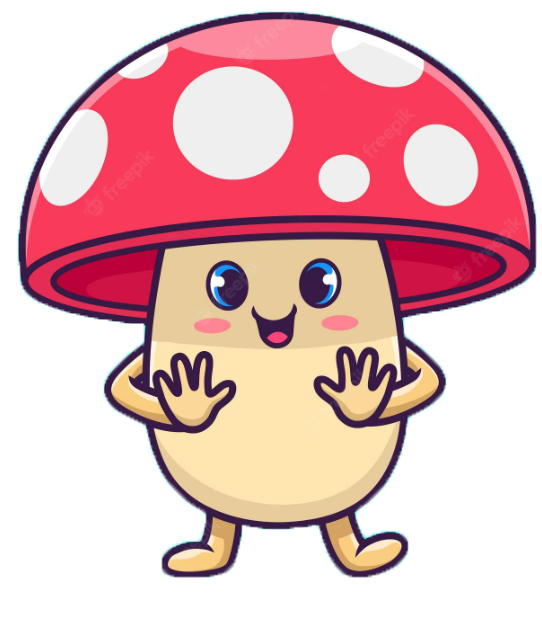
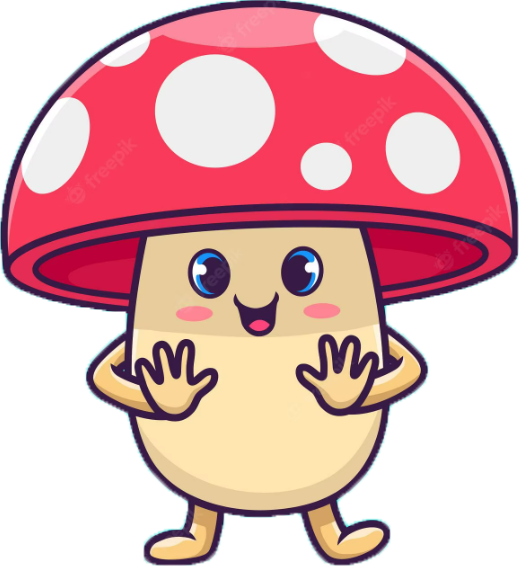
images upgraded and bug fixes

diff --git a/src/backend/Mario.java b/src/backend/Mario.java
@@ -17,20 +17,11 @@ public abstract class Mario extends Block implements Saleable {
     public int heart;
     public Map<Direction, Boolean> task = new HashMap<>();
     int upAndDownBoth = 0;
-    int jump;
-    int power;
     MarioState state = MarioState.mini;
 
     Mario() {
         super(1, 1, 0, 2);
         reset();
-    }
-
-    // TODO power
-    void Set(int jump, int power, int heart) {
-        this.jump = jump;
-        this.power = power;
-        this.heart = heart;
     }
 
     int getSpeed() {
@@ -54,12 +45,28 @@ public abstract class Mario extends Block implements Saleable {
         return true;
     }
 
-    private boolean isDirection(Direction d) {return task.get(d) && !task.get(d.Opposite());}
+    private boolean isDirection(Direction d) {
+        return task.get(d) && !task.get(d.Opposite());
+    }
+
+    int getPowerLevel() {
+        switch (state) {
+            case mini -> {
+                return 1;
+            }
+            case mega -> {
+                return 2;
+            }
+            case giga -> {
+                return 3;
+            }
+        }
+        return 0;
+    }
 
     void reset() {
         for (Direction direction : Direction.values())
             task.put(direction, false);
-        jump = power = 0;
         vx = vy = 0;
         upAndDownBoth = 0;
         W = 1;
@@ -91,8 +98,7 @@ public abstract class Mario extends Block implements Saleable {
             manager.CurrentGame().score += 20;
             Upgrade();
             manager.CurrentSection().Del(block);
-        }
-        else if(block instanceof Mushroom) {
+        } else if (block instanceof Mushroom) {
             manager.CurrentGame().score += 30;
             Upgrade();
             manager.CurrentSection().Del(block);
@@ -119,7 +125,7 @@ public abstract class Mario extends Block implements Saleable {
     void Update() {
         switch (state) {
             case mini -> H = 1;
-            case mega, giga -> H = isDirection(Direction.Down)?1:2;
+            case mega, giga -> H = isDirection(Direction.Down) ? 1 : 2;
         }
         UpdateSpeed();
         super.Update();
@@ -151,7 +157,7 @@ public abstract class Mario extends Block implements Saleable {
         for (Block coin : mustBeEaten)
             manager.CurrentSection().Del(coin);
         manager.CurrentGame().coins += mustBeEaten.size();
-        manager.CurrentGame().score += mustBeEaten.size() * 10 * (power + 1);
+        manager.CurrentGame().score += mustBeEaten.size() * 10;
     }
 
     // TODO for score calculation

diff --git a/src/backend/Game.java b/src/backend/Game.java
@@ -6,6 +6,8 @@ import frontend.SetGameSettings;
 
 import javax.swing.*;
 
+import static backend.MarioState.mini;
+
 public class Game {
     final static int delayMS = 30;
     final static double delay = 0.001 * delayMS;
@@ -35,7 +37,7 @@ public class Game {
         levelNumber = sectionNumber = 0;
         levels = new Level[]{new Level(0)};
         gameFrame.setVisible(true);
-        mario.Set(0, 0, 3);
+        mario.heart = 3;
         Start();
     }
 
@@ -75,8 +77,8 @@ public class Game {
 
     void EndSection() {
         timer.stop();
-        score += (manager.CurrentSection().wholeTime - manager.CurrentSection().spentTimeMS / 1000) * (mario.power + 1);
-        score += mario.heart * 20 * (mario.power + 1);
+        score += (manager.CurrentSection().wholeTime - manager.CurrentSection().spentTimeMS / 1000) * mario.getPowerLevel();
+        score += mario.heart * 20 * mario.getPowerLevel();
         mario.reset();
         manager.CurrentUser().coin += coins;
         coins = 0;
@@ -86,6 +88,11 @@ public class Game {
     public void Stop() {
         timer.stop();
         gameFrame.setVisible(false);
+    }
+
+    public void Resume() {
+        gameFrame.setVisible(true);
+        timer.start();
     }    public transient Timer timer = new Timer(delayMS, e -> {
         manager.CurrentGame().dieASAP = manager.CurrentGame().nextASAP = false;
         manager.CurrentSection().UpdateBlocks();
@@ -101,12 +108,9 @@ public class Game {
             manager.CurrentGame().NextSection();
     });
 
-    public void Resume() {
-        gameFrame.setVisible(true);
-        timer.start();
-    }
-
     void Die() {
+        if (mario.Y < 0)
+            mario.state = mini;
         switch (mario.state) {
             case mini -> {
                 EndSection();
@@ -117,10 +121,10 @@ public class Game {
                     timer.start();
                 return;
             }
-            case mega -> mario.state = MarioState.mini;
+            case mega -> mario.state = mini;
             case giga -> mario.state = MarioState.mega;
         }
-        mario.vy = mario.getJumpSpeed()*1.5;
+        mario.vy = mario.getJumpSpeed() * 1.5;
         mario.Y += 2;
     }
 

diff --git a/src/backend/Item.java b/src/backend/Item.java
@@ -1,21 +1,21 @@
 package backend;
 
-import java.util.Random;
-
 abstract public class Item extends Block {
     Item(double x, double y) {
         super(1, 1, x, y);
+    }
+
+    static Item RandomItem(double x, double y) {
+        if (Math.random() < 0.5) return new Coin(x, y);
+        else if (Math.random() < 0.7) return new Mushroom(x, y);
+        else return new Flower(x, y);
     }
 
     @Override
     boolean Pushed(Direction D) {
         return true;
     }
-    static Item RandomItem(double x, double y) {
-        if(Math.random() < 0.5) return new Coin(x, y);
-        else if(Math.random() < 0.7)return new Mushroom(x, y);
-        else return new Flower(x, y);
-    }
+
     @Override
     boolean doesGravityAffects() {
         return true;

diff --git a/src/backend/Mushroom.java b/src/backend/Mushroom.java
@@ -2,19 +2,19 @@ package backend;
 
 public class Mushroom extends Item {
     double old = 0;
+
     Mushroom(double x, double y) {
         super(x, y);
     }
 
     @Override
     void Update() {
-        if(old < 3)
-        {
+        if (old < 3) {
             old += Game.delay;
-            if(old > 3)
-                vx = new SimpleMario().getSpeed()/2.0;
+            if (old > 3)
+                vx = new SimpleMario().getSpeed() / 2.0;
         }
-        if((vx > 0 && Push(Direction.Right) == 0) || (vx < 0 && Push(Direction.Left) == 0))
+        if ((vx > 0 && Push(Direction.Right) == 0) || (vx < 0 && Push(Direction.Left) == 0))
             vx = -vx;
         super.Update();
     }

diff --git a/src/backend/Solid.java b/src/backend/Solid.java
@@ -28,10 +28,9 @@ public class Solid extends Block {
                 Manager.getInstance().CurrentSection().Add(new Coin(X, Y + 1));
                 used++;
             } else if (solidType == SolidType.Prize) {
-                Manager.getInstance().CurrentSection().Add(Item.RandomItem(X, Y+1));
+                Manager.getInstance().CurrentSection().Add(Item.RandomItem(X, Y + 1));
                 solidType = SolidType.Simple;
-            }
-            else
+            } else
                 Manager.getInstance().CurrentGame().score -= 1;
         }
         return false;

diff --git a/src/backend/Section.java b/src/backend/Section.java
@@ -84,7 +84,7 @@ public class Section {
         S.Add(new Brick(5, 2, 55, 0));
 
         for (int i = 0; i < 20; i++) {
-            S.Add(new Solid(SolidType.Prize,i * 3 + 2, 3 + (int) (Math.random() * 4)));
+            S.Add(new Solid(SolidType.Prize, i * 3 + 2, 3 + (int) (Math.random() * 4)));
         }
     }
 

diff --git a/src/backend/Block.java b/src/backend/Block.java
@@ -108,6 +108,10 @@ public abstract class Block {
     }
 
     void Update() {
+        if (Math.abs(vx) < eps)
+            vx = 0;
+        if (Math.abs(vy) < eps)
+            vy = 0;
         if (doesGravityAffects()) {
             if (Push(Direction.Down) > 0)
                 vy -= Game.delay * G;
